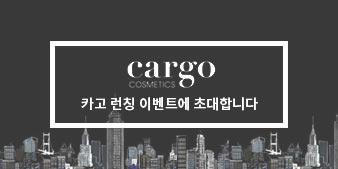
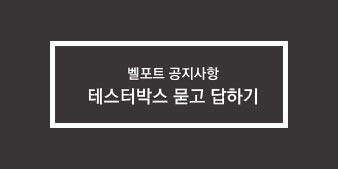
메인페이지 리뉴얼

Changed region(s): [[0.0, 0.355, 1.0, 1.0]]

diff --git a/web_page/html/content/gr0_main.html b/web_page/html/content/gr0_main.html
@@ -45,8 +45,6 @@
 				<h1 class="hide">최신소식</h1>
 				<div class="slides">
 					<p><a href="#"><img src="../images/index/now_banner_01.jpg" alt="브랜드 위크 시즌3가 시작됩니다! 일주일동안 매일 20분께 오모로비짜 정품을 드립니다!" /></a></p>
-					<p><a href="#"><img src="../images/index/now_banner_01.jpg" alt="브랜드 위크 시즌3가 시작됩니다! 일주일동안 매일 20분께 오모로비짜 정품을 드립니다!" /></a></p>
-					<p><a href="#"><img src="../images/index/now_banner_01.jpg" alt="브랜드 위크 시즌3가 시작됩니다! 일주일동안 매일 20분께 오모로비짜 정품을 드립니다!" /></a></p>
 				</div>
 			</section>
 			
@@ -84,10 +82,10 @@
 			<section class="products">
 				<h1 class="hide">추천제품</h1>
 				<div class="slides">
-					<p><a href="#"><img src="../images/index/product_01.jpg" alt="피부와 모발에 영양을 공급하고 윤기를 강화하는 어센틱 오일" /></a></p>
-					<p><a href="#"><img src="../images/index/product_01.jpg" alt="피부와 모발에 영양을 공급하고 윤기를 강화하는 어센틱 오일" /></a></p>
-					<p><a href="#"><img src="../images/index/product_01.jpg" alt="피부와 모발에 영양을 공급하고 윤기를 강화하는 어센틱 오일" /></a></p>
-				</ul>
+					<p><a href="#"><img src="../images/index/product_01.jpg" alt="유니버설 밤  위드 호호바 오일 앤 프로텍티브  비즈왁스" /></a></p>
+					<p><a href="#"><img src="../images/index/product_02.jpg" alt="AUDACITY 획기적인 특허 기술로 볼드하고 반짝이는 컬러가 오랫동안 지속되고, 발림성 및 광택감이 뛰어남" /></a></p>
+					<p><a href="#"><img src="../images/index/product_03.jpg" alt="BLUR IRIS 획기적인 특허 기술로 볼드하고 반짝이는 컬러가 오랫동안 지속되고, 발림성 및 광택감이 뛰어남" /></a></p>
+					<p><a href="#"><img src="../images/index/product_04.jpg" alt="베티-루머나이저 섹시 브론져 하이라이터" /></a></p>
 			</section>
 			
 			<section class="spotlight">

diff --git a/web_page/css/style.css b/web_page/css/style.css
@@ -96,11 +96,11 @@ table{width:100%;}
 .slidesjs-previous:hover, 
 .slidesjs-next:hover {background-color:#eee;}
 .slidesjs-previous,
-.slidesjs-previous:active {background:url(./images/index/bg_arrow_black.png) no-repeat 6px 5px;}
+.slidesjs-previous:active {background:url(../images/index/bg_arrow_black.png) no-repeat 6px 5px;}
 .slidesjs-next,
-.slidesjs-next:active {background:url(./images/index/bg_arrow_black.png) no-repeat -14px 5px;}
+.slidesjs-next:active {background:url(../images/index/bg_arrow_black.png) no-repeat -14px 5px;}
 
-.slidesjs-pagination-item a {display:block; padding:2px; width:7px; height:7px; text-indent:-9999px; background:url(./images/index/bg_page_black.png) no-repeat 2px 2px;}
+.slidesjs-pagination-item a {display:block; padding:2px; width:7px; height:7px; text-indent:-9999px; background:url(../images/index/bg_page_black.png) no-repeat 2px 2px;}
 .slidesjs-pagination-item a.active {background-position:-9px 2px;}
 
 /* ==========================================================

diff --git a/web_page/css/login.css b/web_page/css/login.css
@@ -34,7 +34,7 @@ hgroup>p{color:#666; line-height:1.8;}
 }
 .login .form_area .btn_login .login {background:#231f20;}
 .login .form_area .btn_login .fb_login {padding-left:54px; width:77px; background:#3b589c url(../images/login/btn_login_facebook.gif) no-repeat 31px 24px; text-align:left;}
-.login .form_area .input_area>input {width:220px; font-family:'RixSGo B', sans-serif; font-weight:normal; color:#c0c0c0;}
+.login .form_area .input_area>input {width:220px; font-family:'RixSGo B', sans-serif; font-weight:normal; color:#000;}
 .login .btn_area .find_idpw{width:390px; height:66px; float:left;}
 .login .btn_area .btns_wrap {margin-top:19px;}
 .login .btn_area .unity_membership {float:left; width:389px; border-left:1px solid #d3d0cf;}

diff --git a/web_page/js/event.js b/web_page/js/event.js
@@ -307,7 +307,7 @@ $(function(){
 	// 상단 메인 슬라이드
 	(function() {
 		var topBanner = $('.top-banner .slides');
-		if (topBanner.length != 0) {
+		if (topBanner.length != 0 && topBanner.children().length > 1) {
 			topBanner.slidesjs({
         width: 1014,
         height: 420,
@@ -323,7 +323,7 @@ $(function(){
 	// 가운데 제품 슬라이드
 	(function() {
 		var products = $('.products .slides');
-		if (products.length != 0) {
+		if (products.length != 0 && products.children().length > 1) {
 			products.slidesjs({
         width: 338,
         height: 338,
